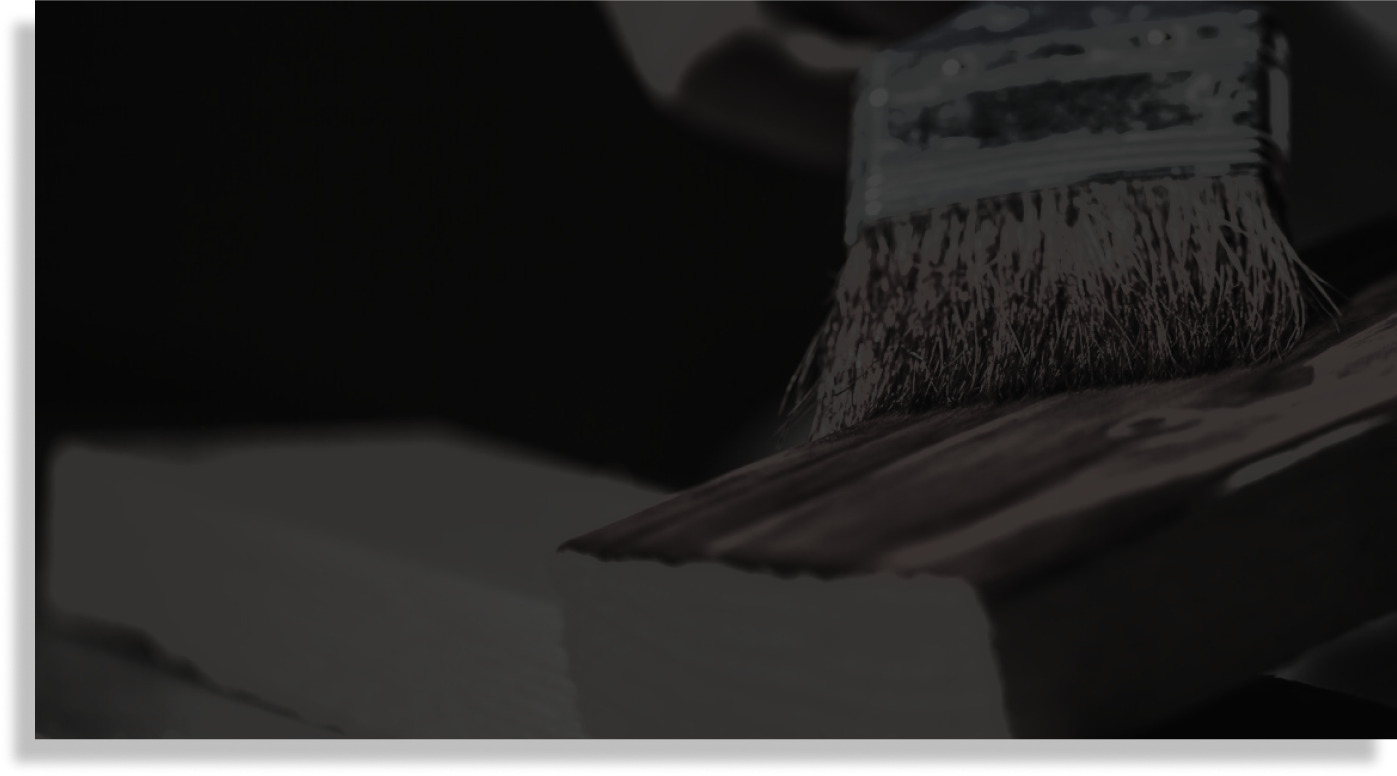
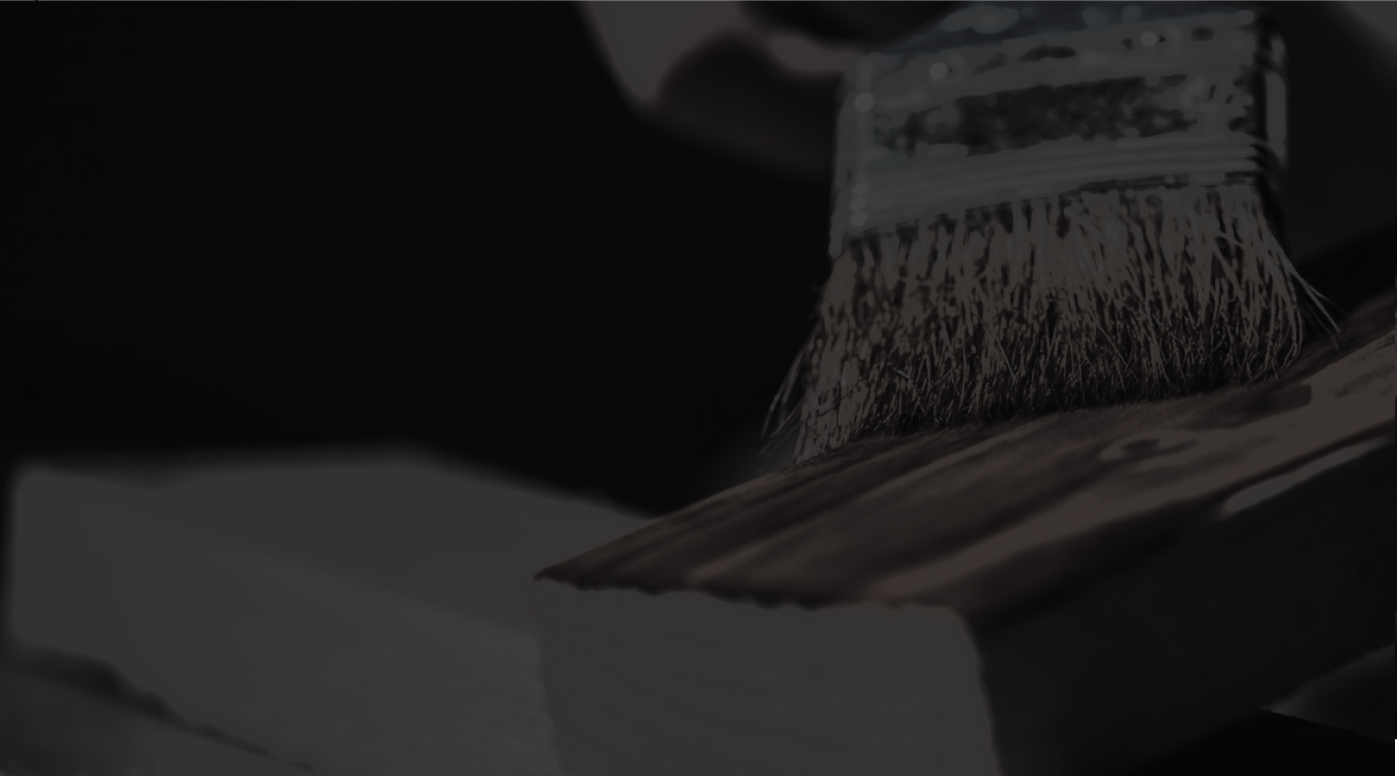
feat: database structure

diff --git a/src/services/Database.ts b/src/services/Database.ts
@@ -1,24 +1,40 @@
-/* 
-Категория
-
-*/
-
 export interface IDatabaseRecord {
+    id: number;
     category: string;
+    image: string;
+    expirationDate: string;
+    description: string;
+}
+export interface Enamel extends IDatabaseRecord {
+    color: string[];
+    baseMaterial: string;
+    skinView: string; // вид пленки
+    colorName: string;
+    viscosity: string; // вязкость
+    adhesion: string; // адгезия
+    appointment: string[]; // назначение
+    properties: string[];
+    volatiles: string; // летучие вещества
+}
+export interface Priming extends IDatabaseRecord {
     resin: string; // смола
     solvent: string; // растворитель
-    viscosity: string; // вязкость
+    fireHazard: string; // пожароопастность
+    coldResist: string; // морозостойкость
+    viscosity: string; // вязкост
     density: string; // плотность
-    color: string;
-    dryResidue: string; // сухой остаток
-    fireresist: string;
-    coldresist: string;
-    shine: string; // блеск
-    description: string;
-    recommendation: string;
-    image: string;
 }
-
+export interface Varnish extends IDatabaseRecord {
+    resin: string; // смола
+    solvent: string; // растворитель
+    viscosity: string; // вязкост
+    density: string; // плотность
+    shine: string; // блеск
+    fireHazard: string; // пожароопастность
+    coldResist: string; // морозостойкость
+}
 export const Database: IDatabaseRecord[] = [
-    
+    <Varnish>{
+        
+    }
 ]

diff --git a/src/pages/Contacts.tsx b/src/pages/Contacts.tsx
@@ -15,7 +15,7 @@ export default function Contacts(): React.JSX.Element {
 
     const setStyle = (anim: string): React.CSSProperties => ({
         marginTop: windowSize.height < 800 ? '100px' : '150px', 
-        animation: `${anim} 1s`
+        animation: window.location.pathname == '/' ? 'none' : `${anim} 1s`
     })
     React.useEffect(() => {
         const handleResize = () => {
@@ -44,7 +44,6 @@ export default function Contacts(): React.JSX.Element {
                         backgroundImage: "url('/contacts.png')",
                         backgroundRepeat: 'no-repeat',
                         backgroundSize: 'contain',
-                        backgroundAttachment: 'fixed',
                         width: '100%',
                         height: '100%',
                         boxShadow: '0px 20px 20px #444'

diff --git a/src/App.tsx b/src/App.tsx
@@ -38,7 +38,14 @@ const App: React.FC = () => {
 	return (
 		<div className="main-site-content">
 			<Header ref={headerRef}/>
-			<RouterProvider router={router} />
+			<div style={{
+				position:'absolute',
+				backgroundColor: '#00000044',
+				width: '100%',
+				height: '100%'
+			}}>
+				<RouterProvider router={router} />
+			</div>
 		</div>
 	);
 };
